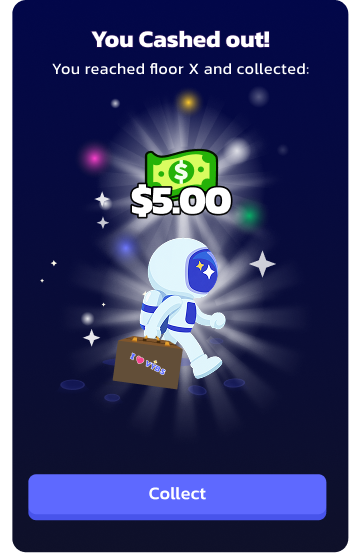
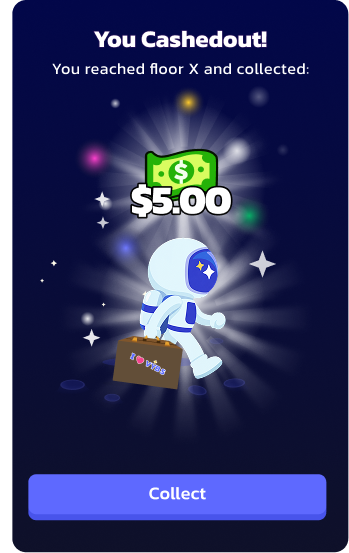
pinatas and elevator

Changed region(s): [[0.2579, 0.0307, 0.7736, 0.0922]]

diff --git a/pinatas/christmaspinatas/pinata_basic.html b/pinatas/christmaspinatas/pinata_basic.html
@@ -22,7 +22,7 @@
       width: 100%;
       max-width: 393px;
       height: 100%;
-      background: #0F1129 url("advanced.png") center top / cover no-repeat;
+      background: #0F1129 url("bg/advanced.png") center top / cover no-repeat;
       overflow: hidden;
     }
 

diff --git a/pinatas/christmaspinatas/pinata_boss.html b/pinatas/christmaspinatas/pinata_boss.html
@@ -22,7 +22,7 @@
       width: 100%;
       max-width: 393px;
       height: 100%;
-      background: #0F1129 url("boss.png") center top / cover no-repeat;
+      background: #0F1129 url("bg/boss.png") center top / cover no-repeat;
       overflow: hidden;
     }
 
